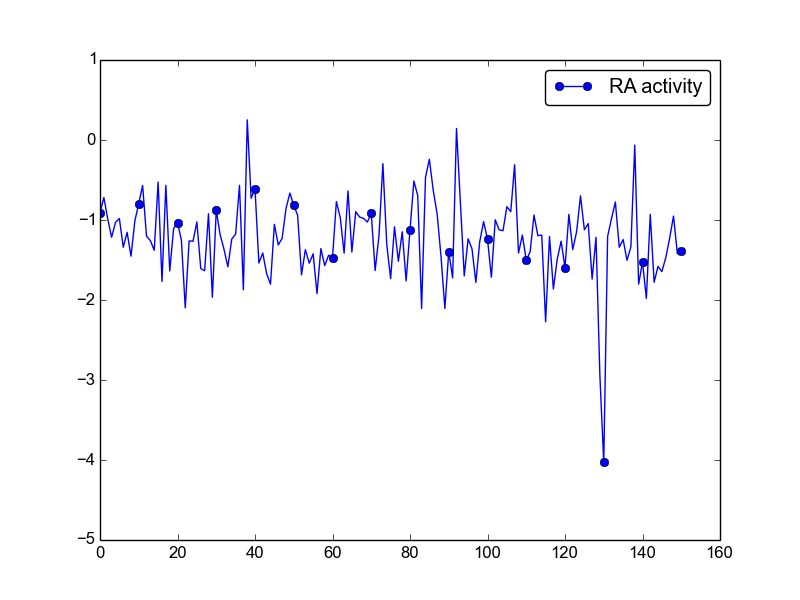
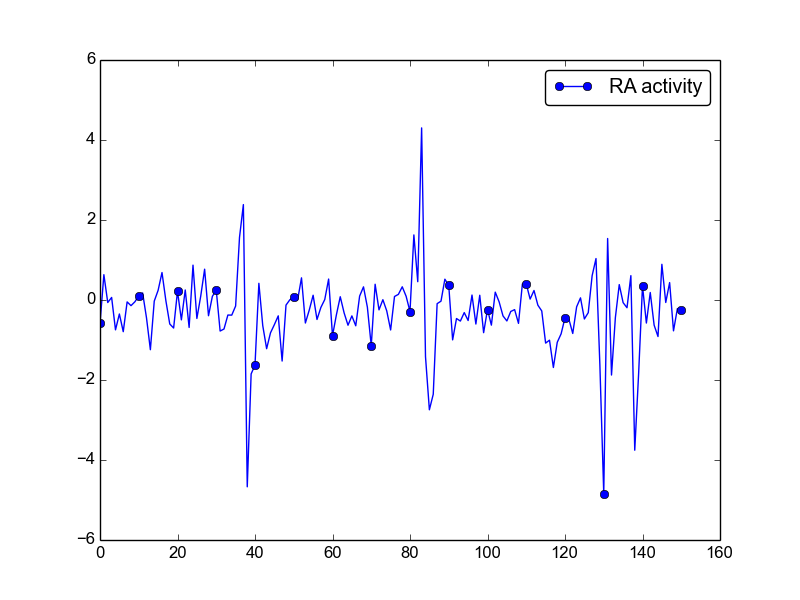
result

diff --git a/imitation_learning/second_try.py b/imitation_learning/second_try.py
@@ -97,7 +97,7 @@ def activation(x, thresh = threshold):
 n_sound = 100 # 50 # 100 # 50 # 200; # was 20, or 50
 
 # number of motor neurons (RA)
-n_ra = n_sound #* 5;
+n_ra = 10 #n_sound #* 5;
 
 # degrees of freedom of the vocal tract:
 n_syrinx = 2
